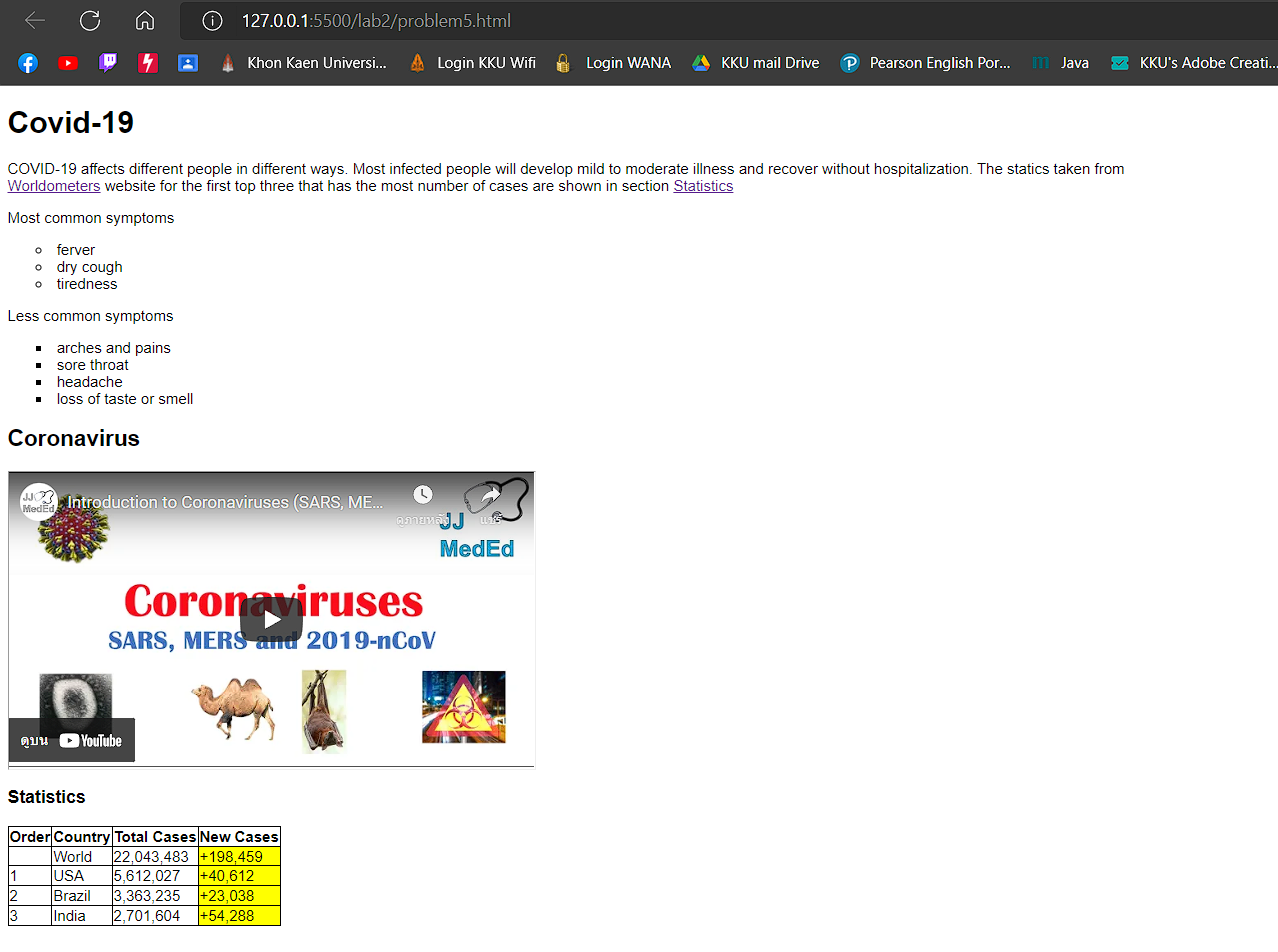
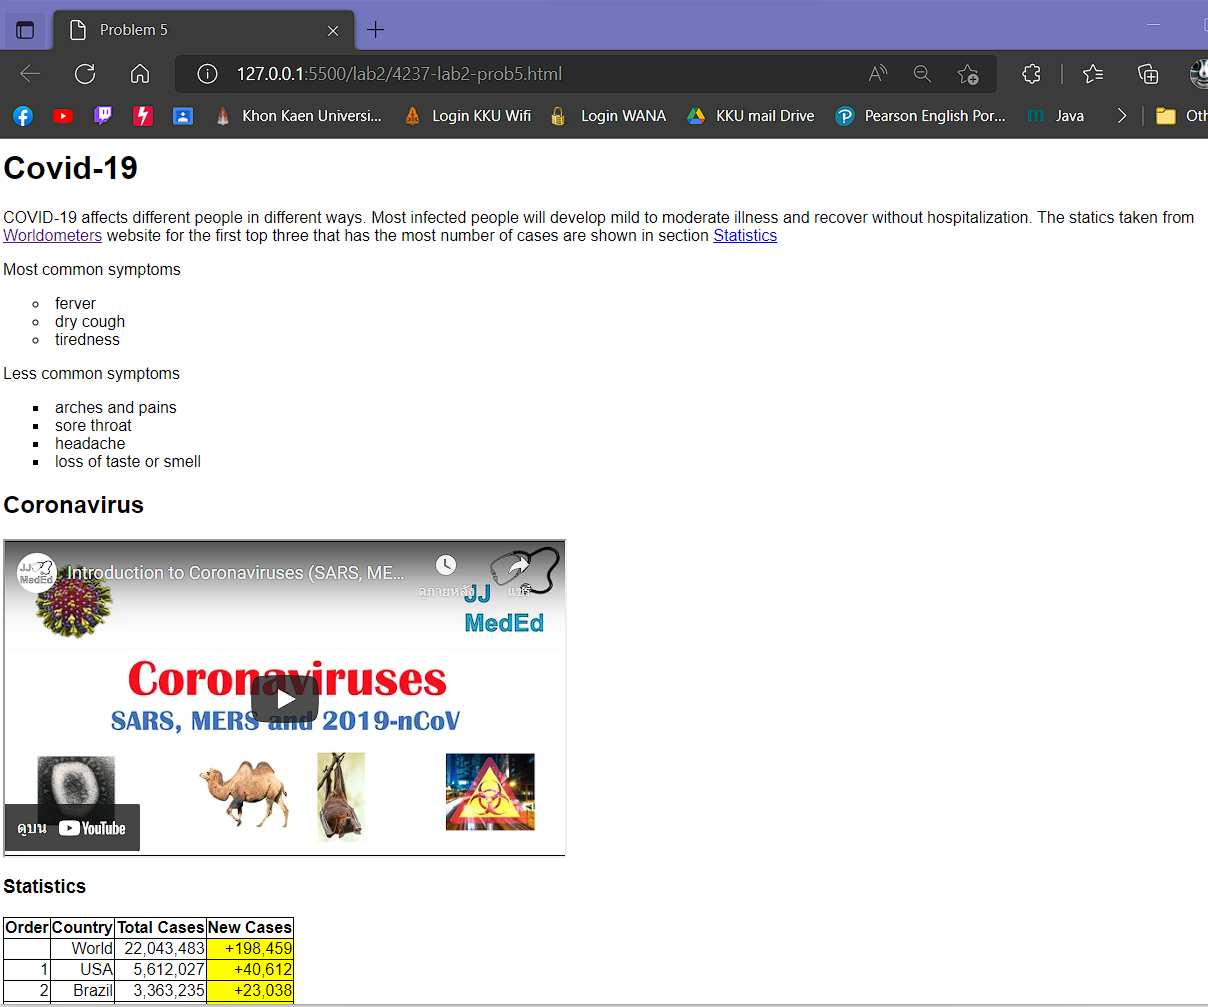
semi-final 3

Changed region(s): [[0.0, 0.0, 1.0, 1.0]]

diff --git a/lab2/4237-lab2-prob5.html b/lab2/4237-lab2-prob5.html
@@ -17,6 +17,9 @@
             .new-cases {
                 background-color: yellow;
             }
+            td {
+                text-align: right;
+            }
         </style>
     </head>
     <body>
